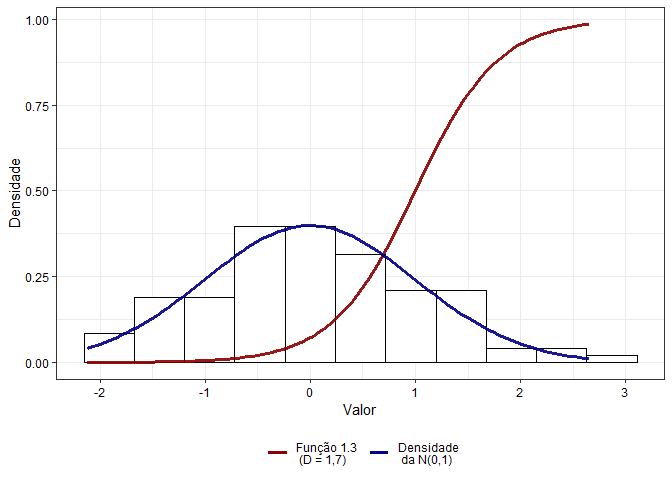
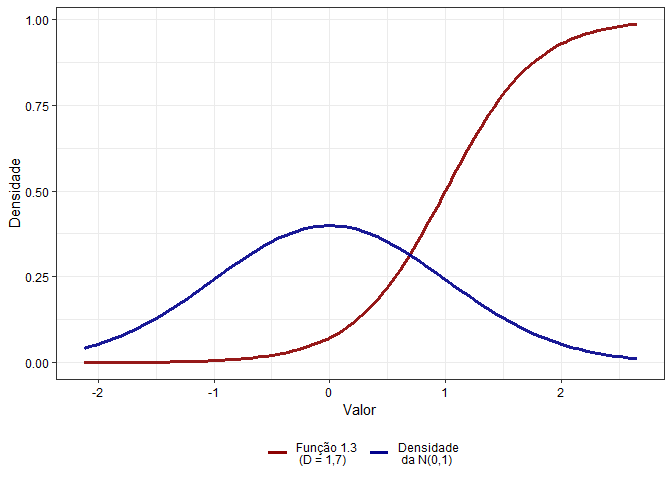
Testes

diff --git a/Tarefa0/Script_Tarefa0.md b/Tarefa0/Script_Tarefa0.md
@@ -195,10 +195,6 @@ seq(-5, 5, 0.1) %>%
 rnorm(n = 100) %>% 
   as_tibble %>%
   ggplot(aes(x = value)) +
-  geom_histogram(aes(y = ..density..),
-                 colour = "black",
-                 fill = "white",
-                 bins = 11) +
   theme_bw() +
   stat_function(fun = funcaoq13, 
                 aes(colour = "bla"),
@@ -255,39 +251,27 @@ seq(-5, 5, 0.1) %>%
 
 ``` r
 rnorm(n = 1000) %>% 
-  as_tibble %>%
+  as_tibble %>% 
+  mutate(curva1 = funcaoq15(x = value, a = 1, b = 0.5, c = 0.2, D = 1.7)) %>% 
+  mutate(curva2 = funcaoq15(x = value, a = 1, b = 1.5, c = 0.2, D = 1.7)) %>% 
+  mutate(curva3 = funcaoq15(x = value, a = 2, b = 1.5, c = 0.2, D = 1.7)) %>%
+  mutate(norm_inv = -dnorm(x = value)) %>%
   ggplot(aes(x = value)) +
-  stat_function(fun = function(x) -dnorm(x), 
-                aes(colour = "bla"),
-                size = 1.5, 
-                alpha = 0.9) +
-  stat_function(fun = funcaoq15, 
-                aes(colour = "bla1"),
-                args = list(a = 1, b = 0.5, c = 0.2, D = 1.7),
-                size = 1.5, 
-                alpha = 0.9) +
-  stat_function(fun = funcaoq15, 
-                aes(colour = "bla2"),
-                args = list(a = 1, b = 1.5, c = 0.2, D = 1.7),
-                size = 1.5, 
-                alpha = 0.9) +
-  stat_function(fun = funcaoq15, 
-                aes(colour = "bla3"),
-                args = list(a = 2, b = 1.5, c = 0.2, D = 1.7),
-                size = 1.5, 
-                alpha = 0.9) +
-  theme_bw() +
+  geom_line(aes(y = curva1, colour = "bla1")) +
+  geom_line(aes(y = curva2, colour = "bla2")) +
+  geom_line(aes(y = curva3, colour = "bla3")) +
+  geom_line(aes(y = norm_inv, colour = "bla4")) +
   scale_x_continuous(breaks = c(-3, -2, -1, 0, 1, 2, 3)) +
   scale_y_continuous(breaks = seq(-1, 1, 0.1), label = formato_real_graf) +
-  theme(legend.position = "bottom", 
+  theme_bw() +
+  theme(legend.position = "none", 
         legend.direction = "horizontal",
         axis.title.y = element_text(colour = "black"),
         axis.title.x = element_text(colour = "black"),
         axis.text = element_text(colour = "black")) +
   labs(x = expression(paste("Habilidade ", "(", theta, ")")), 
        y = "Probabilidade de Resposta Correta") +
-  geom_hline(yintercept = 0) +
-  geom_vline(xintercept = 0)
+  geom_hline(yintercept = 0)
 ```
 
 ![](Script_Tarefa0_files/figure-markdown_github/funcaoq16-1.png)
